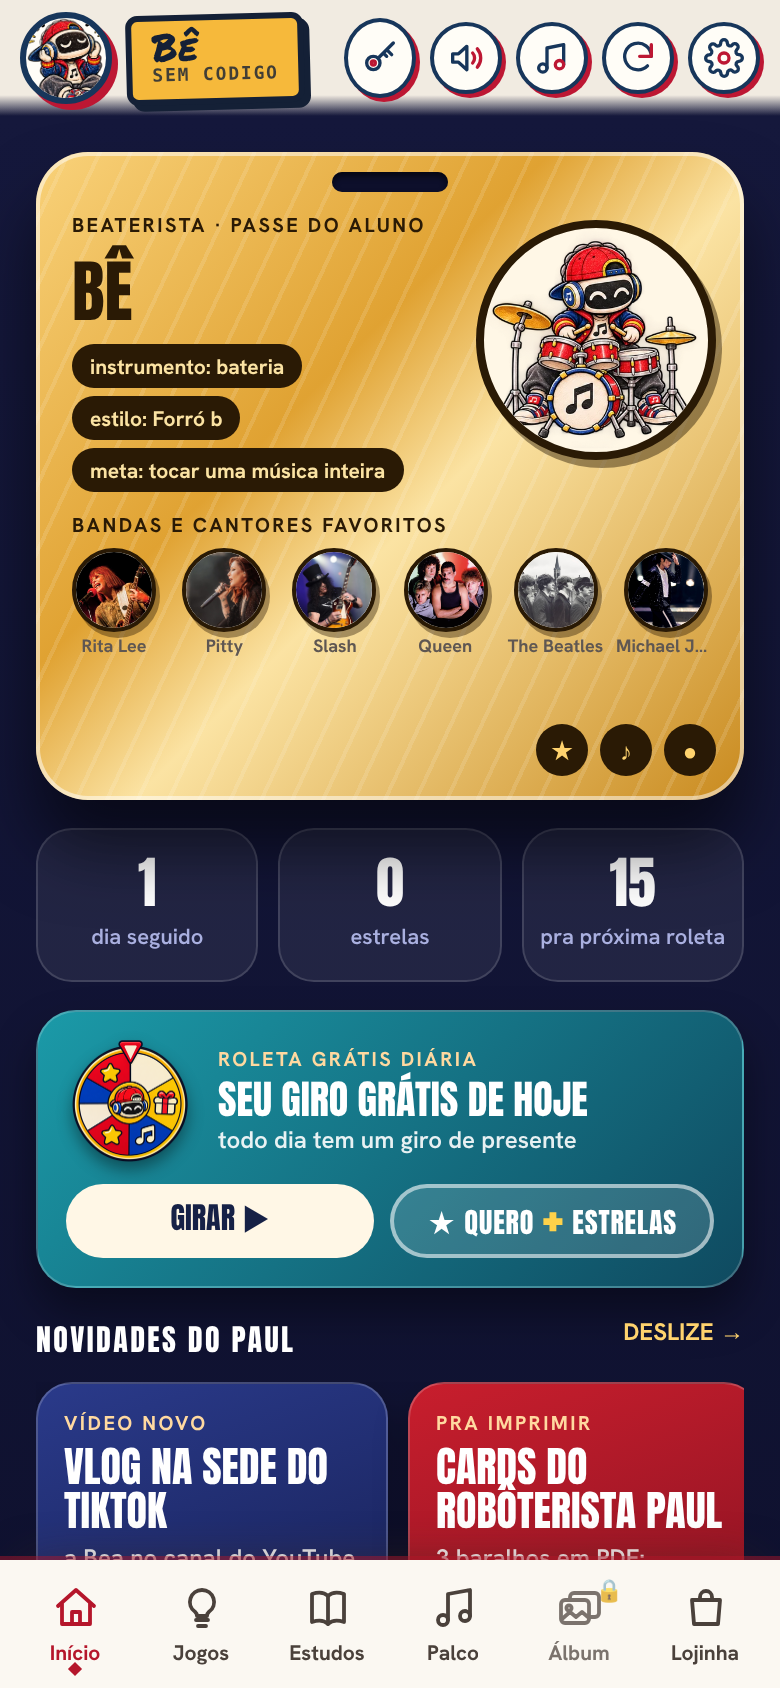
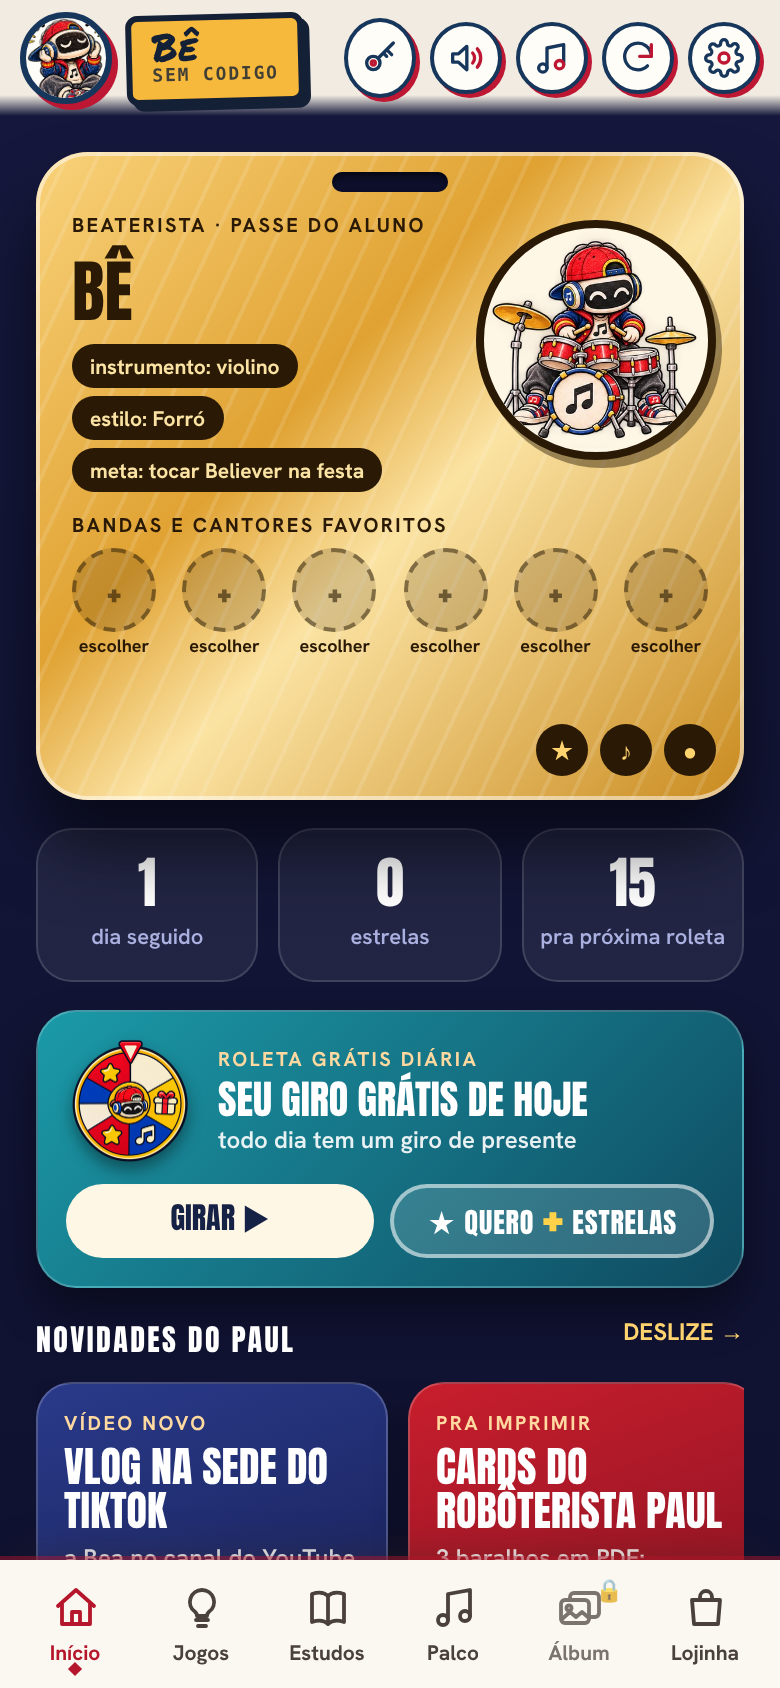
v708: adicionar em instrumento, estilo e meta + lista de palavras bloqueadas
Claude-Session: https://claude.ai/code/session_017Ekti3kM2Vxnu27Y3eqQNw

Changed region(s): [[0.0923, 0.2156, 0.5231, 0.4005], [0.5231, 0.3081, 0.7692, 0.4005], [0.8, 0.3081, 0.9231, 0.4005]]

diff --git a/js/inicio-perfil.js b/js/inicio-perfil.js
@@ -1,18 +1,27 @@
 // "Sobre mim" do passe (Início): instrumento, estilo favorito e meta. A pessoa escolhe em chips (sem digitar nada). Fica no aparelho (um conjunto por nome) e,
 // pra quem tem código, vai pra nuvem junto com o progresso (js/progresso-nuvem.js). Formato: { i, e, m, t } (t = quando mudou; o mais recente ganha).
 import { chave as chaveAluno } from './chave-aluno.js';
+import { bloqueada } from './palavras-bloqueadas.js';
 const KEY = 'bt-inicio-perfil';
 export const CHAVE_NUVEM = 'beaterista-inicio-perfil';
 /** Os campos e as opções de cada um. A primeira letra do campo (i, e, m) é a chave guardada. */
 export const CAMPOS = [
-  { k: 'i', nome: 'instrumento', opcoes: ['bateria', 'teclado', 'violão', 'voz', 'baixo', 'outro'] },
-  { k: 'e', nome: 'estilo', livre: true, opcoes: ['rock', 'pop', 'MPB', 'sertanejo', 'funk', 'gospel', 'jazz'] },
-  { k: 'm', nome: 'meta', opcoes: ['tocar uma música inteira', 'entrar numa banda', 'perder a vergonha', 'aprender ritmos'] },
+  { k: 'i', nome: 'instrumento', livre: true, max: 20, opcoes: ['bateria', 'teclado', 'violão', 'voz', 'baixo', 'outro'] },
+  { k: 'e', nome: 'estilo', livre: true, max: 20, opcoes: ['rock', 'pop', 'MPB', 'sertanejo', 'funk', 'gospel', 'jazz'] },
+  { k: 'm', nome: 'meta', livre: true, max: 30, opcoes: ['tocar uma música inteira', 'entrar numa banda', 'perder a vergonha', 'aprender ritmos'] },
 ];
-/** Texto livre (só o estilo aceita, pelo chip "adicionar"): letras, números, espaço e & ' + . -, até 20 caracteres. */
-export const limpaLivre = (v) => String(v || '').replace(/[^\p{L}\p{N} &'+.-]/gu, '').replace(/\s+/g, ' ').trim().slice(0, 20);
-/** O valor serve? Opções da lista sempre; texto livre só nos campos `livre`. Nunca confia no que vem de fora. */
-export const valido = (k, v) => { const c = CAMPOS.find((x) => x.k === k); if (!c) return ''; if (c.opcoes.includes(v)) return v; return c.livre ? limpaLivre(v) : ''; };
+/** Texto livre (chip "adicionar", em todos os campos): letras, números, espaço e & ' + . -, no máximo `max` caracteres. Palavras que não podem (js/palavras-bloqueadas.js) ficam de fora. */
+const limpaTexto = (v, max) => String(v || '').replace(/[^\p{L}\p{N} &'+.-]/gu, '').replace(/\s+/g, ' ').trim().slice(0, max);
+export const limpaLivre = (v, max = 20) => { const t = limpaTexto(v, max); return t && !bloqueada(v) && !bloqueada(t) ? t : ''; };
+/** Confere o que a pessoa escreveu no "adicionar": { valor, erro } (erro = o recado pra mostrar). */
+export function checarLivre(k, raw) {
+  const c = CAMPOS.find((x) => x.k === k); const t = limpaTexto(raw, (c && c.max) || 20);
+  if (!t) return { valor: '', erro: 'escreva alguma coisa antes.' };
+  if (bloqueada(raw) || bloqueada(t)) return { valor: '', erro: 'essa palavra não pode aqui. tente outra!' };
+  return { valor: t, erro: '' };
+}
+/** O valor serve? Opções da lista sempre; texto livre nos campos `livre`. Nunca confia no que vem de fora. */
+export const valido = (k, v) => { const c = CAMPOS.find((x) => x.k === k); if (!c) return ''; if (c.opcoes.includes(v)) return v; return c.livre ? limpaLivre(v, c.max) : ''; };
 const limpa = (o) => { const r = { t: Number(o && o.t) || 0 }; for (const c of CAMPOS) r[c.k] = valido(c.k, o && o[c.k]); return r; };
 const chave = () => chaveAluno(KEY);
 const lsLer = () => { try { return localStorage.getItem(chave()); } catch { return null; } };

diff --git a/js/palavras-bloqueadas.js b/js/palavras-bloqueadas.js
@@ -1,0 +1,31 @@
+// Palavras que NÃO podem aparecer nos textos que o aluno escreve (instrumento, estilo e meta do passe, que também vão pra sala e pra nuvem).
+// É uma lista inicial: a Bea (ou eu) acrescenta ou tira palavras aqui, uma por linha. Escreva sem acento e em minúsculas.
+// Como confere: ignora acento, maiúscula, número no lugar de letra (p0rra), letras repetidas (puuuta) e espaço ou ponto no meio (p u t a).
+const BLOQUEADAS = `
+puta puto putaria putinha porra caralho carai cacete merda bosta foda fode foder fodase fodido fdp vsf vtnc tnc
+cu cuzao cuzinho buceta bct xoxota xana piroca punheta boquete siririca
+viado viadinho bicha sapatao traveco vagabunda vagabundo vadia piranha arrombado arrombada desgraca desgracado
+otario otaria idiota imbecil retardado retardada mongol babaca escroto escrota
+sexo sexy porno pornografia nude nudes gostosa gostoso tesao transar estupro estuprador pedofilo pedofilia
+nazista nazismo hitler racista
+suicidio suicida cocaina maconha crack heroina
+fuck fucking shit bitch dick pussy cunt asshole nigger nigga faggot porn sex
+`.split(/\s+/).filter(Boolean);
+const SET = new Set(BLOQUEADAS);
+const LONGAS = BLOQUEADAS.filter((w) => w.length >= 5); // palavras longas também valem "grudadas" (p u t a r i a), sem pegar palavras normais por engano
+
+const normaliza = (t) => String(t || '').toLowerCase().normalize('NFD').replace(/[̀-ͯ]/g, '')
+  .replace(/[0]/g, 'o').replace(/[1!|]/g, 'i').replace(/3/g, 'e').replace(/[4@]/g, 'a').replace(/[5$]/g, 's').replace(/7/g, 't').replace(/8/g, 'b');
+const semRepetir = (t) => t.replace(/(.)\1+/g, '$1');
+
+/** O texto tem alguma palavra que não pode? */
+export function bloqueada(texto) {
+  const base = normaliza(texto);
+  const brutas = base.split(/[^a-z]+/).filter(Boolean);
+  const palavras = []; let letras = ''; // letras soltas seguidas (p u t a) viram uma palavra só
+  for (const t of brutas) { if (t.length === 1) letras += t; else { if (letras) { palavras.push(letras); letras = ''; } palavras.push(t); } }
+  if (letras) palavras.push(letras);
+  for (const p of palavras) { if (SET.has(p) || SET.has(semRepetir(p))) return true; }
+  const grudado = semRepetir(base.replace(/[^a-z]+/g, ''));
+  return LONGAS.some((w) => grudado.includes(semRepetir(w)));
+}

diff --git a/js/views/inicio.js b/js/views/inicio.js
@@ -148,12 +148,14 @@ export function mount(host, { nome = '' } = {}) {
     const chips = h('div', { class: 'jg-seg in-sobre-chips', role: 'group', 'aria-label': c.nome }, ...c.opcoes.map((o) => h('button', { type: 'button', class: atual === o ? 'on' : '', 'aria-pressed': String(atual === o), onclick: () => pega(o) }, o)));
     const caixa = h('div', { class: 'in-sobre' }, h('p', { class: 'in-sobre-t' }, `escolha o seu ${c.nome}:`), chips);
     if (c.livre) { // "adicionar": a pessoa escreve o dela (até 20 letras); as opções da lista continuam ali
-      const campo = h('input', { class: 'field in-sobre-in', type: 'text', maxlength: 20, autocomplete: 'off', placeholder: 'escreva o seu (até 20 letras)', 'aria-label': `adicionar ${c.nome}`, value: atual && !c.opcoes.includes(atual) ? atual : '' });
-      const ok = h('button', { type: 'button', class: 'btn small primary', onclick: () => { const v = PERF.limpaLivre(campo.value); if (v) pega(v); } }, 'ok');
+      const erro = h('p', { class: 'in-sobre-erro', role: 'alert' });
+      const campo = h('input', { class: 'field in-sobre-in', type: 'text', maxlength: c.max, autocomplete: 'off', placeholder: `escreva o seu (até ${c.max} letras)`, 'aria-label': `adicionar ${c.nome}`, value: atual && !c.opcoes.includes(atual) ? atual : '' });
+      const ok = h('button', { type: 'button', class: 'btn small primary', onclick: () => { const r = PERF.checarLivre(c.k, campo.value); if (r.erro) { erro.textContent = r.erro; return; } pega(r.valor); } }, 'ok');
+      campo.addEventListener('input', () => { erro.textContent = ''; });
       campo.addEventListener('keydown', (e) => { if (e.key === 'Enter') ok.click(); });
       const linha = h('div', { class: 'in-sobre-add', hidden: !(atual && !c.opcoes.includes(atual)) }, campo, ok);
       chips.append(h('button', { type: 'button', class: `in-sobre-mais${linha.hidden ? '' : ' on'}`, onclick: () => { linha.hidden = false; campo.focus(); } }, '+ adicionar'));
-      caixa.append(linha);
+      caixa.append(linha, erro);
     }
     if (atual) caixa.append(h('button', { type: 'button', class: 'btn small ghost', onclick: () => pega('') }, 'tirar'));
     return caixa;

diff --git a/css/inicio.css b/css/inicio.css
@@ -158,3 +158,8 @@ body:has(.inicio) .atualiza-bar { display: none !important; }
 .in-sobre-chips { display: flex; flex-wrap: wrap; gap: 8px; }
 .in-sobre-add { display: flex; gap: 8px; align-items: center; } .in-sobre-add[hidden] { display: none; } .in-sobre-in { flex: 1; min-width: 0; }
 .in-passe .in-fav small { color: #2a1a05; }
+.in-sobre-erro { margin: 0; min-height: 0; color: #c81e2d; font-weight: 700; font-size: 13px; } .in-sobre-erro:empty { display: none; }
+/* chips da folha "sobre mim": retângulo curto, texto pequeno, sombra deslocada (jeito dos chips da Bea) */
+.in-sobre-chips button { border: 2px solid #162146; background: #fff; color: #162146; border-radius: 10px !important; padding: 6px 12px; font: 700 13px "Hanken Grotesk", sans-serif; box-shadow: 2px 3px 0 #162146; cursor: pointer; }
+.in-sobre-chips button.on, .in-sobre-chips button[aria-pressed="true"] { background: #f2a91b; }
+.in-sobre-chips .in-sobre-mais { border-style: dashed; background: transparent; }

diff --git a/sw.js b/sw.js
@@ -1,7 +1,7 @@
 // Service worker: cacheia só o "casco" do app (código + marca). Nenhum dado do usuário passa por aqui.
-const VERSION = 'beaterista-v707';
+const VERSION = 'beaterista-v708';
 const SHELL = [
-  'js/paulta/livre.js', 'js/dicas-aluno.js', 'js/boas-vindas.js', 'js/inicio-perfil.js',
+  'js/paulta/livre.js', 'js/dicas-aluno.js', 'js/boas-vindas.js', 'js/inicio-perfil.js', 'js/palavras-bloqueadas.js',
   'js/paulta/mapa.js',
   'js/figurinhas/share-ui.js', 'js/views/perfil.js', 'js/acesso.js',
   'css/cara-musical.css', 'js/jogos/cara-musical/tela.js', 'js/jogos/cara-musical/corrida.js', 'js/jogos/cara-musical/regras.js', 'js/jogos/cara-musical/elenco.js', 'js/jogos/cara-musical/perguntas.js', 'js/jogos/cara-musical/falas.js', 'js/jogos/cara-musical/fichas.js', 'js/jogos/cara-musical/dados-extra.js', 'js/jogos/cara-musical/contestar.js', 'js/jogos/cara-musical/midia.js', 'js/jogos/cara-musical/online-regras.js', 'js/jogos/cara-musical/online-tela.js',
